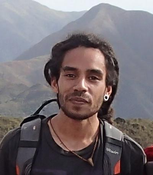
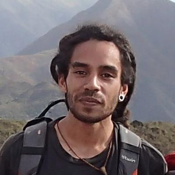
change link static variable, update pictures team

diff --git a/apps/portal/templates/ressources.html b/apps/portal/templates/ressources.html
@@ -32,7 +32,7 @@
         <div id={{person.id}}_person class="card card-flip">
           <div class="card-front">
             {%if person.image%}
-            <img class="card-img-top center-block rounded-circle" src="../static/img/persons/{{person.image}}">
+            <img class="card-img-top center-block rounded-circle" src="{% static 'img/persons/' %}{{person.image}}">
             {%else%}
             <div class="portrait">
               <i class="fas fa-portrait fa-9x fa-border"></i>
@@ -46,20 +46,20 @@
           <div class="card-back">
 
             <p class="card-text">{{person.speciality}}</p>
-              {% comment %} <h5 class="card-title"> {{person.first_name|capfirst}} {{person.last_name|capfirst}} </h5>
-              {% if activities%}
-              {% for activity in activities%}
-              {% if person.id == activity.person_id %}
-              <p class="card-text">
-                <a data-toggle="popover" data-title="{{activity.title}}"
-                  data-content="{{activity.description|default:''}}" data-trigger='hover' data-placement='auto'>
-                  {{activity.first_year|default:"..."}}-{{activity.first_month|default:""}}
-                  {{activity|truncatechars:75}}</a>
-              </p>
-              {%endif%}
-              {%endfor%}
-              {%endif%} {% endcomment %}
-     
+            {% comment %} <h5 class="card-title"> {{person.first_name|capfirst}} {{person.last_name|capfirst}} </h5>
+            {% if activities%}
+            {% for activity in activities%}
+            {% if person.id == activity.person_id %}
+            <p class="card-text">
+              <a data-toggle="popover" data-title="{{activity.title}}"
+                data-content="{{activity.description|default:''}}" data-trigger='hover' data-placement='auto'>
+                {{activity.first_year|default:"..."}}-{{activity.first_month|default:""}}
+                {{activity|truncatechars:75}}</a>
+            </p>
+            {%endif%}
+            {%endfor%}
+            {%endif%} {% endcomment %}
+
           </div>
         </div>
         {%endif%}
@@ -84,7 +84,7 @@
         <div id={{person.id}}_person class="card card-flip">
           <div class="card-front">
             {%if person.image%}
-            <img class="card-img-top center-block rounded-circle" src="../static/img/persons/{{person.image}}">
+            <img class="card-img-top center-block rounded-circle" src="{% static 'img/persons/' %}{{person.image}}">
             {%else%}
             <div class="portrait">
               <i class="fas fa-portrait fa-9x fa-border"></i>
@@ -96,21 +96,22 @@
             </div>
           </div>
           <div class="card-back">
-              {% comment %} <h5 class="card-title"> {{person.first_name|capfirst}} {{person.last_name|capfirst}} </h5> {% endcomment %}
-              <p class="card-text">{{person.speciality}}</p>
-              {% comment %}   <h5 class="card-title"> {{person.first_name|capfirst}} {{person.last_name|capfirst}} </h5>
-              {% if activities%}
-              {% for activity in activities%}
-              {% if person.id == activity.person_id %}
-              <p class="card-text">
-                <a data-toggle="popover" data-title="{{activity.title}}"
-                  data-content="{{activity.description|default:''}}" data-trigger='hover' data-placement='auto'>
-                  {{activity.first_year|default:"..."}}-{{activity.first_month|default:""}}
-                  {{activity|truncatechars:75}}</a>
-              </p>
-              {%endif%}
-              {%endfor%}
-              {%endif%} {% endcomment %}
+            {% comment %} <h5 class="card-title"> {{person.first_name|capfirst}} {{person.last_name|capfirst}} </h5>
+            {% endcomment %}
+            <p class="card-text">{{person.speciality}}</p>
+            {% comment %} <h5 class="card-title"> {{person.first_name|capfirst}} {{person.last_name|capfirst}} </h5>
+            {% if activities%}
+            {% for activity in activities%}
+            {% if person.id == activity.person_id %}
+            <p class="card-text">
+              <a data-toggle="popover" data-title="{{activity.title}}"
+                data-content="{{activity.description|default:''}}" data-trigger='hover' data-placement='auto'>
+                {{activity.first_year|default:"..."}}-{{activity.first_month|default:""}}
+                {{activity|truncatechars:75}}</a>
+            </p>
+            {%endif%}
+            {%endfor%}
+            {%endif%} {% endcomment %}
           </div>
         </div>
         {%endif%}

diff --git a/apps/portal/templates/home.html b/apps/portal/templates/home.html
@@ -122,7 +122,7 @@
         <div class="col-lg-12 mx-auto context">
           <h2 style="text-align: justify;">Le contexte</h2>
           <div class="row">
-            <p><img id="map_pacific" class="col rounded" src="../static/img/carte_pacifique.png"
+            <p><img id="map_pacific" class="col rounded" src="{% static '/img/carte_pacifique.png' %}"
                 alt="carte du pacifique" />
             </p>
             <p class="col" style="text-align: justify;">La Nouvelle-Cal&eacute;donie est un territoire fran&ccedil;ais
@@ -145,7 +145,7 @@
               &eacute;nerg&eacute;tique, habitat pour la faune, r&eacute;gulation de l'eau et du climat, patrimoine
               culturel...). Et si on se donnait les moyens aujourd'hui d'inverser la tendance et de cheminer vers une
               extension des milieux forestiers?</p>
-            <img id="edge" class="rounded col-5 " src="../static/img/lisieres.png" alt="lisières" />
+            <img id="edge" class="rounded col-5 " src="{% static '/img/lisieres.png' %}" alt="lisières" />
           </div>
         </div>
       </div>
@@ -162,7 +162,7 @@
             genres end&eacute;miques. (Adapt&eacute; de florical janvier 2020).</p>
           <div id="table" class="row">
             <div class="mx-auto d-block">
-              <img src="../static/img/home_tableau.jpg" alt="">
+              <img src="{% static '/img/home_tableau.jpg' %}" alt="">
             </div>
           </div>
           <p style="text-align: justify;">Elle pr&eacute;sente de nombreuses singularit&eacute;s qui attisent la
@@ -179,15 +179,15 @@
               &agrave; fleurs.</li>
             <div id="flower" class="row">
               <div class="mx-auto d-block">
-                <img id="Zygogynum_mackeei" src="../static/img/Zygogynum_mackeei.png" alt="Zygogynum mackeei"
+                <img id="Zygogynum_mackeei" src="{% static '/img/Zygogynum_mackeei.png' %}" alt="Zygogynum mackeei"
                   title="Zygogynum mackeei" />
-                <img src="../static/img/Amborella_trichopoda.png" title="Amborella trichopoda"
+                <img src="{% static '/img/Amborella_trichopoda.png' %}" title="Amborella trichopoda"
                   alt="Amborella trichopoda" />
-                <img src="../static/img/Cryptocarya_barrabea.png" title="Cryptocarya barrabea"
+                <img src="{% static '/img/Cryptocarya_barrabea.png' %}" title="Cryptocarya barrabea"
                   alt="Cryptocarya barrabea" />
-                <img src="../static/img/Hedycarya_rivularis.png" title="Hedycarya rivularis"
+                <img src="{% static '/img/Hedycarya_rivularis.png' %}" title="Hedycarya rivularis"
                   alt="Hedycarya rivularis" />
-                <img id="Stenocarpus_trinervis" src="../static/img/Stenocarpus_trinervis.png"
+                <img id="Stenocarpus_trinervis" src="{% static '/img/Stenocarpus_trinervis.png' %}"
                   title="Stenocarpus trinervis" alt="Stenocarpus trinervis" />
               </div>
             </div>
@@ -198,7 +198,7 @@
               esp&egrave;ce de gymnosperme parasite, <em><i>Parasitaxus usta</i></em>.
               <div class="row">
                 <div class="col">
-                  <img id="Parasitaxus_usta" class="rounded" src="../static/img/Parasitaxus_usta.png"
+                  <img id="Parasitaxus_usta" class="rounded" src="{% static '/img/Parasitaxus_usta.png' %}"
                     alt="Parasitaxus usta" title="Parasitaxus usta" />
                 </div>
               </div>

diff --git a/apps/portal/templates/methodologie.html b/apps/portal/templates/methodologie.html
@@ -27,7 +27,7 @@
     <div class="row">
       <div class="col-lg-12 mx-auto">
         <h4>Holdridge</h4>
-        <img src="../static/img/humidity_provinces.jpg" class="rounded" alt="Leslie Holdridge">
+        <img src="{% static 'img/humidity_provinces.jpg' %}" class="rounded" alt="Leslie Holdridge">
 
         <p class="text-justify">La classification des milieux de vie dite de Holdrige a été crée en 1947 par le
           botaniste anglais
@@ -53,7 +53,7 @@
     <div class="row">
       <div class="col-lg-12 mx-auto">
         <h4>Enveloppe envionnementale</h4>
-        <img src="../static/img/envEnviron.png" class="img-thumbnail" alt="Enveloppement environnementale">
+        <img src="{% static 'img/envEnviron.png' %}" class="img-thumbnail" alt="Enveloppement environnementale">
         <p class="text-justify">L'enveloppe environnementale est une représentation à plat d'une distribution composée
           de trois
           paramètres que sont la pluviométrie, l'altitude et la proportion d'habitat (ou d'occurence)
